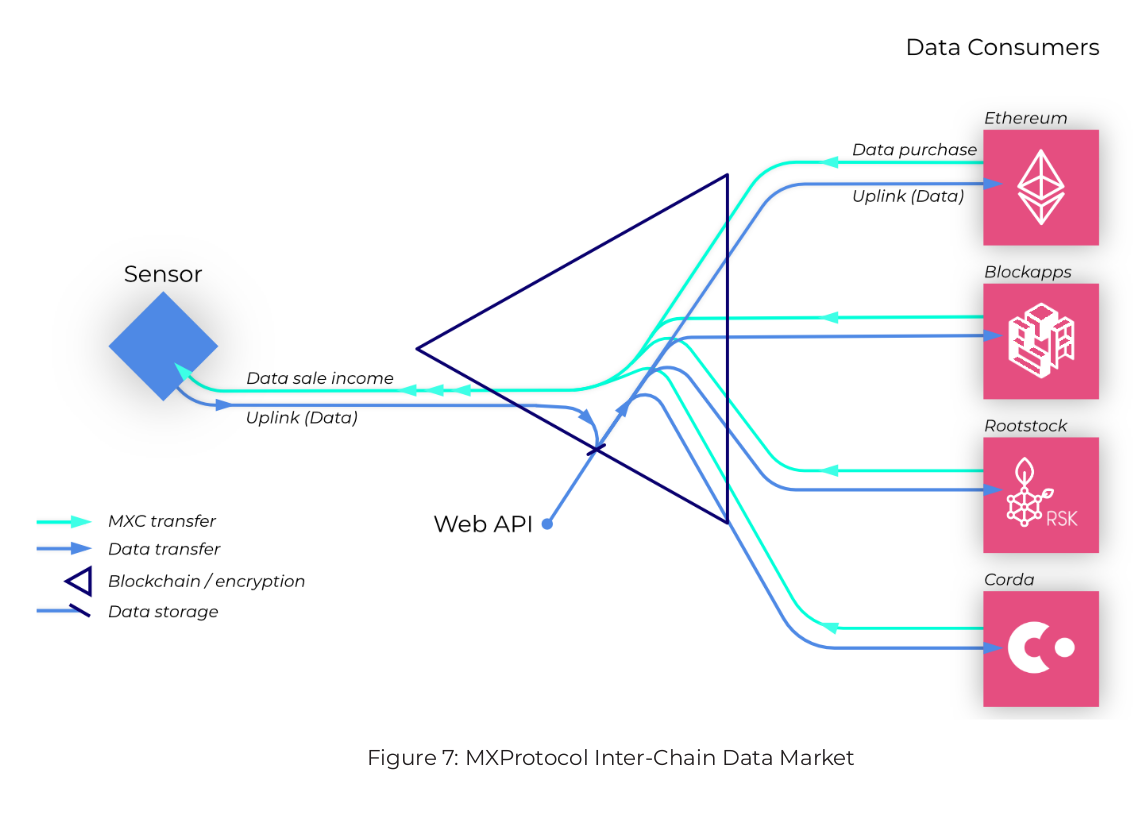
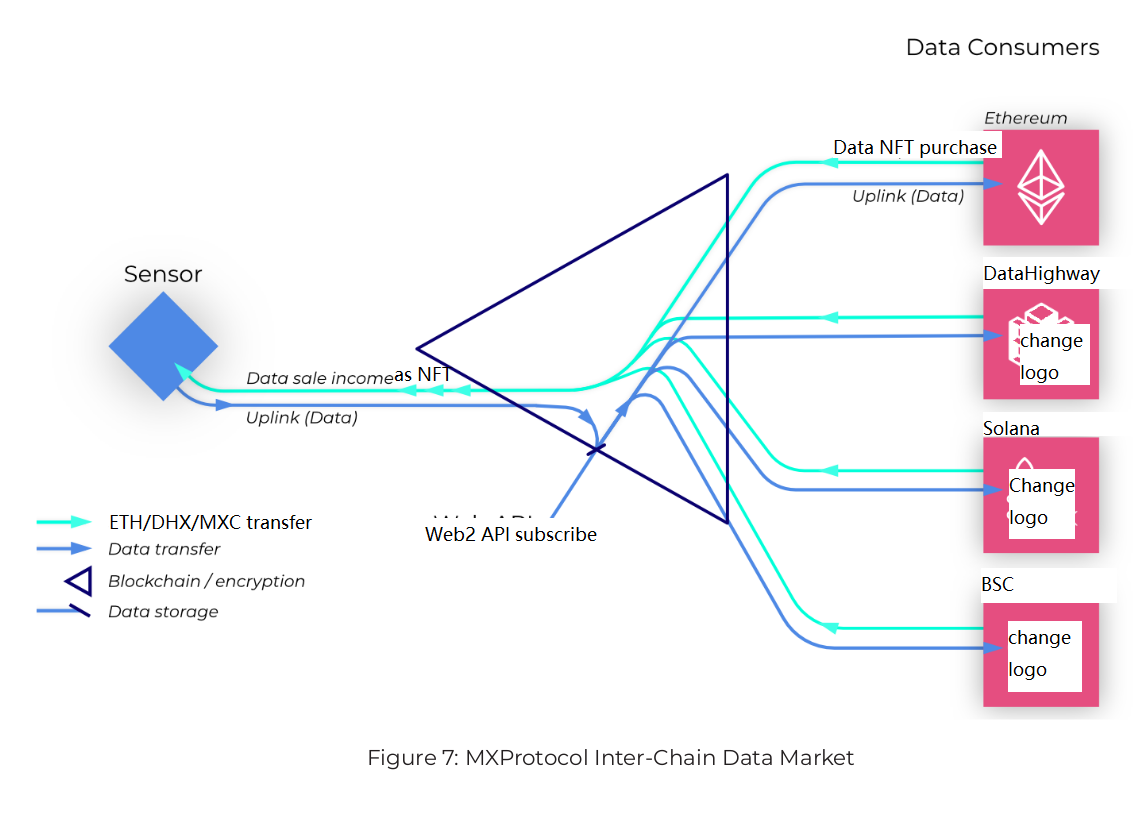
last three sections

diff --git a/docs/whitepapers/mxprotocol.md b/docs/whitepapers/mxprotocol.md
@@ -616,27 +616,15 @@ free-licensed bands completely.
 
 ### 6.3 Third party integration
 
-The Anti-Collision Coordinator is indeed a protocol plug-in for the LoRaWAN server to
-control the Media Access Control (MAC) layer of LoRaWAN uplinks and downlinks.
+It is also possible to integrate third party LPWAN miners to the MXC network which will also enable the multi-token mining for other brands.
 
-There are two ways to integrate the Anti-Collision Coordinator into the LPWAN server.
-First is to run the full node which integrates the anti-collision mechanism into the protocol
-layer like illustrated in [Figure 3](#fig3). Another solution is to run a light node with the
-anti-collision module that could be compatible with all the LoRaWAN servers.
+As [Figure 6](#fig6) shows, MXC controller enables the miner that compatible with LoRaWAN protocol to mine multiple tokens. It will create a fuel tank like the other M2Pro miners and enables the data validations in MXC network, but these third party miners don't equip with location engine chips, they can't provide Proof-of-Location and other services to the network thus the income will be less than M2Pro.
 
-As [Figure 6](#fig6) shows, the Anti-Collision Coordinator is essentially a plug-in for the other
-LoRaWAN servers that is compatible with LoRaWAN protocol. The plug-in is a protocol enhancement that controls the uplink and downlink based on the payment logic and
-resource requirement between two or more networks.
-
-A light node connects to the full node to assign the LPWAN a wallet for sending and
-receiving MXCs. The Anti-Collision Coordinator controls the MAC layer for all the
-LoRaWAN devices. A separate white paper will be released about the protocol design of
-the Anti-Collision Coordinator and its APIs for LoRaWAN servers.
 
 <figure>
   <img
-    src="./images/fig6_anti_collision_integration.png"
-    alt="anti-collision-third-party-integration"
+    src="./images/fig6_thrid-party"
+    alt="third-party-integration"
     width="70%"
   />
 </figure>
@@ -644,7 +632,7 @@ the Anti-Collision Coordinator and its APIs for LoRaWAN servers.
 ## 7. Inter-Chain Data Market
 
 Currently, there are several traditional data markets that originate from
-cryptocurrencies, e.g. Streamr, IOTA and Mobius. All provide a secure mechanism
+cryptocurrencies, e.g. Streamr and IOTA. All provide some mechanisms
 to make sure that the data stream can be copied and transmitted from the owner
 to the consumer in a sequential manner.
 
@@ -657,37 +645,34 @@ successfully delivered? The smart contract must rely on external Oracles from
 either the GPS data from the package or the LPWAN tag reading from the
 warehouse.
 
-> The entire industry continually requires chains such as Mobius or MXC to feed
+> The entire industry continually requires chains such as MXC to feed
 > other chains smart contracts and the interdependent information to the
 > applications.
 
 Oracles are third party services which are not part of the blockchain consensus
 mechanism. The main challenge with Oracles is that people need to trust these
 sources of information. Whether a website or a sensor, the source of information
-needs to be consistently trustworthy. In order to solve these issues, Oracles
-have different trusted computing techniques.
+needs to be consistently trustworthy. In order to solve these issues, MXC proposed data as NFTs to work as Oracles.
 
 ### 7.1 Goals of the design
 
-Blockchains support Oracles in order to assist with fetching external data. The
+Blockchains support NFTs in order to assist with exchanging external data. The
 reason for this comes from the fact that blockchain applications, such as
-Bitcoin scripts and smart contracts cannot access and fetch data directly. As a
-result, they require pricing feeds for assets and financial applications and
-weather-related information for peer-to-peer insurance, all written with smart
-contracts. Here we define the goals of the MXProtocol data market with respect
-to designing for Oracles:
+OpenSea and RMRK, exchanges external data like pictures, music files between each other. As a
+result, they require location, real-world data feeds for assets and financial applications and
+weather-related information for peer-to-peer insurance, all written with NFTs. Here we define the goals of the MXProtocol data market with respect
+to designing for Data NFT:
 
 - Facilitate data usage between different blockchains
 - Establish a trusted resource for the external Oracles
 - Stack up the data for later purchase
-- Enable purchase of a live data stream
+- Enable purchase of a live real-world data stream
 - Provide APIs for non-blockchain applications to access the data
-- Settle all monetary transfers within MXC
 
 ### 7.2 Design and implementation
 
-The MXProtocol Inter-Chain Data Market provides an effective method to feed the
-other smart contracts with LPWAN data captured by sensors or end devices.
+The MXProtocol Inter-Chain Data Market that built on both Ethereum and DataHighway blockchain provides an effective method to feed the
+other applications with LPWAN data NFT captured by sensors or end devices.
 
 <a name="fig7"> </a>
 <figure>
@@ -699,108 +684,59 @@ other smart contracts with LPWAN data captured by sensors or end devices.
 </figure>
 
 [Figure 7](#fig7) shows the example of the transaction between MXProtocol data and blockchains
-like Ethereum.
+like Ethereum and DataHighway.
 
-MXProtocol feeds data to Ethereum smart contracts, and gets Ethereum payments as
+MXProtocol feeds data to Ethereum/DataHighway NFTs, and gets Ethereum/DHX payments as
 rewards. It only requires a simple protocol to trust that the data fetched from
 the MXProtocol data source is genuine and untampered. In addition to that, the
 rich data stream can also be used by external non-blockchain applications via
-Web APIs.
+Web APIs after the NFT is purchased by the Web2 companies.
 
-Major block chains like Ethereum are short in data for smart contracts, and the data that
+Major block chains like Ethereum and Polkadot are short in data for Dapps, and the data that
 is provided by external Oracles essentially may not be trustworthy. With the MXProtocol
 Inter-chain data market, the generation and flow of the data can be tracked and verified
-publicly on the chain. Hence, the security issue is solved internally with MXProtocol.
+publicly on the chain. Hence, the security issue of NFT real-world data is solved internally with MXProtocol.
 
-### 7.3 Polkadot and Aeternity
+### 7.3 Polkadot and Cosmos
 
 Polkadot is essentially a protocol that communicates between different networks.
-It solves consensus and transaction delivery between different chains.
+It solves consensus and transaction delivery between different chains. DataHighway is a project that built by ex-parity team as a DAO, featuring a parachain as a service, DataHighway will be the project that host all kinds of real-world data NFT transactions.
 
-Aeternity is created to be the interface between real world data and smart
-contracts. Instead of using Oracles that can cause a single point of failure,
-Aeternity’s design provides decen- tralized infrastructure for holding and
-transferring the data to smart contracts.
+Cosmos is created to be the interface between blockchains and smart
+contracts. Instead of using relay chains as shared security,
+Cosmos’s design provides IBC hub infrastructure for holding and
+transferring the interchain data to smart contracts.
 
 The MXProtocol Inter-chain data market uses the idea and mechanism developed by
-both Polkadot and Aeternity to deal with consensus, privacy, transaction
-delivery and security. A separate white paper will be released about this
-design.
+both Polkadot and DataHighway to deal with consensus, privacy, transaction
+delivery and security. A separate white paper in Datahighway.com is released to elaborate the design.
 
-## 8. Smart Bidding use cases
+## 8. Proof of Location
 
-### 8.1 Downlink resource auction
+### 8.1 Goals of design
 
-Downlink resource auctions occur when it is the only option for the Gateways to
-decide which sensor/end devices to communicate with. The Gateway usually has
-eight downlink channels, supporting more than 60,000 sensors that need to be
-acknowledged in sequence. Uplinks are free for the sensors since all the
-Gateways will pick up the packets and forward them within the same network, and
-the Anti-Collision Coordinator needs to pay the other network when collisions
-need to be avoided. The downlink resources need to be allocated to some sensors
-that need downlinks to execute the commands ([See Figure 8](#fig8)). Smart Bidding codes
-decide the willingness for the sensor/end devices to pay for the resources, and
-all the transactions are settled in MXC.
+Location is a very rare resources that needs to be calculated by radio signals. Right now there are 3 methods to calculate a location. First is GPS signals, which only works in outdoor, and easy to be tampered as the GPS radios can be emulated by some software to fake a location. second is IP address calculations, this is a database technology that relies on the accuracy of the data input about a certain IP address, and often a VPN service can get a new IP for you to fake a location. Thrid is bluetooth based location tracking, companies like Apple is using it as it is hard or nearly impossible to fake the bluetooth receiver that hold by general public, as they pass by the bluetooth tags and tells the network the exact location of the object in a decentralized way.
 
-Both the European and U.S. radio committees impose regulations on the spectrum
-access for LPWAN radios using 868/915Mhz bands. These regulations cover issues
-from maximum time on air to maximum duty cycle, which, in turn, introduces
-waiting times between two packets. For Gateways without Listen-Before-Talk
-Technology, this waiting time can range anywhere from a few milliseconds to
-minutes depending on the data rate and number of bytes being sent.
+MXProtocol designs the Proof of location to solve the problem that bluetooth often failed to solve-- distance. While Bluetooth only gets 100-200 meters, MXC miners can reach 1-40km to determine the location of the object in a decentralized way, as the miners are hold by different communities.
 
 <a name="fig8"></a>
 <figure>
   <img src="./images/fig8_LPWAN.png" alt="LPWAN" width="70%" />
 </figure>
 
-Currently, the downlink resource is distributed on a “first come first served”
-basis, which can lead to many potential problems for various devices. For
-example, if an electricity monitoring meter were to get downlink priority over a
-door lock, the door lock in turn doesn’t receive the confirmation to unlock the
-door. The MXProtocol Smart Bidding solves this problem as covered in the
-following two aspects:
+As we can see in [Figure 8](#fig8) shows how a sensor NFT's Proof of Location works, firstly the sensor send data that can be picked up by the miners as usual, each data will be timestamped in the miner with precise time of arrival, this feature is done by the hardware chip inside the M2Pro miners, the thrid party miners won't be able to provide this service due to the hardware limit.
 
-- Allocate the downlink resource within the same LPWAN using the Smart Bidding
-  code snippet for the auction.
-- Enable different networks to trade for the downlink resources for the sensors/
-  end devices that are willing to pay.
+Then the MXC controller needs to rule out the tampered location of miners or inaccurate ones with bias and peer Proof of Location data, if the miner is not physically located there or always change the location, the Proof of Location can easily exclude these data. A location of Time Difference of Arrival (TDOA) needs at leas 3 miners with valid location to calculate, the more miners the more accuate the location can be.
 
-The snippet of code inside the sensors/end devices decides the market prices of the
-LPWAN. For a dense Gateway deployment like a city center, the prices can be lower due to
-the abundant resources of the downlink channels available. While in the mountains or suburban areas, few sensors would compete for the downlink
-resources and thus the prices will rise. The sensors will bid according to the MTBF,
-downlink numbers and the density of the network.
+All the miners that can provide Proof of Locations will be able to validate more MXC results than the third party miners.
 
-The auction method and logic behind the bidding can be programmed by the owner of the
-sensor. It is expected that AI-driven algorithms will later be introduced to offer smarter
-bidding strategy for the sensors and end devices.
+### 8.2 Design and implementation
 
-### 8.2 Network coverage market
+It is expected that miners need to equip with Semtech SX1303 chips or the ones that has accurate timestamp functions in order to provide the location services.
 
-It is expected that the supply of downlink resources will gradually increase
-with the demand of the sensors/end devices. The bidders will pay for the high
-prices for the lower Gateway density, which gives SMEs and MNCs incentives to
-expand the network coverage to get more MXC coin rewards.
+The bias and credibility of the location data feed is aldo dependent on the Meta-XP and Miner health of the miner, as the location data  are mostly self-reporting and peer verified by the Proof of Location networks that built by community.
 
-Figure 6 illustrates the market placed by Smart Bidding codes. The prices are
-lower at the dense deployment where the two LPWAN coverages overlap, and higher
-where there is only one LPWAN coverage.
-
-Some sensors travel around the city. Their code specifies the maximum amount of
-coins that it would like to pay for a single downlink. However, they have been
-to the places where no LPWAN coverage is available. Once they are back to the
-network, they put the last off-chain bid to the chain, and notify the whole
-network that they are willing to pay a pre-determined price from the Smart
-Bidding code.
-
-The prices and the amount of off-chain bids will surely motivate companies and
-individuals to deploy the LPWAN Gateway to the field, thus expanding the network
-coverage for the chain. MXProtocol shifts control from telecommunication
-conglomerates to companies and individuals by allowing them to deploy their own
-LPWAN.
-
-### 8.3 Service market
+### 8.3 MXC Controller
 
 There are lists of services that LPWAN can provide to the sensors/end devices.
 For example, an Over-the-air firmware update should be multi-casted to the
@@ -812,33 +748,31 @@ power consumption and limited reach, LPWAN localization uses the packets sent
 by the sensors to calculate the position, which requires no computation from the
 resource-limited sensors.
 
-Such a service requires the resources of both a Gateway and the cloud. Hence, the Smart
-Bidding code will specify whether it is willing to pay for the service and its accuracy. The
+Such a service requires the resources of both a miner and the Supernode. Hence, MXC controller will specify whether it is willing to pay for the service and its accuracy. The
 more Gateways that receive the packets, the more accurate the position will be.
 
-LPWAN sometimes needs to change the channel configurations like the arrangement
-or the allowed data rate. This kind of coordination will need to be applied globally and the
-network will have to try to synchronize such a configuration as much as possible. Smart
-Bidding can also accept “free auctions” where they require no one to pay.
+Also  the data NFTs that could facilitate the data transactions would need a service to provision and provide the NFT to the blockchain, MXC Controller is designed to bridge the users and supernode/miners for NFT provisioning services.
 
-Through the MXProtocol Smart Bidding design, it is possible that sensors/end devices pay
-for the services that the network offers to them. The outcome of the design will be:
+Through the MXC controller design, it is possible that sensors/end devices pay 1 USD
+for life-time free usage of the network, while choosing the available services to subscribe or pay. The outcome of the design will be:
 
 - Some sensors/end devices get the services and the resources that they demand
   through auction
 - Network deployment receives reward by offering services and resources to the
   LPWAN sensors/end devices
-- All the monetary transactions are done automatically in MXC without human intervention
+- All the monetary transactions are done automatically in MXC/BTC/DOT without human intervention
 
 ## 9. Development progress
 
-MXC Foundation’s partner MatchX has released the MatchBox LPWAN Gateway, and
-the LPWAN module with development kits. It has reached more than 40 countries with
+MXC Foundation’s partner MatchX has released the MatchX LPWAN Gateway, M2Pro, and
+the LPWAN module with development kits. It has reached more than 170 countries with
 distributors in Australia, North America, Asia and Europe.
 
 The first Proof-of-Concept has been performed in conjunction with the Stellar
-Development Foundation, utilizing the LPWAN coverage and enabling sensors to pay
+Development Foundation and IOTA, utilizing the LPWAN coverage and enabling sensors to pay
 with each other.
+
+Now MXC is built on Ethereum and Datahighway.com for the whitepaper elaborated.
 
 ## 10. References
 
